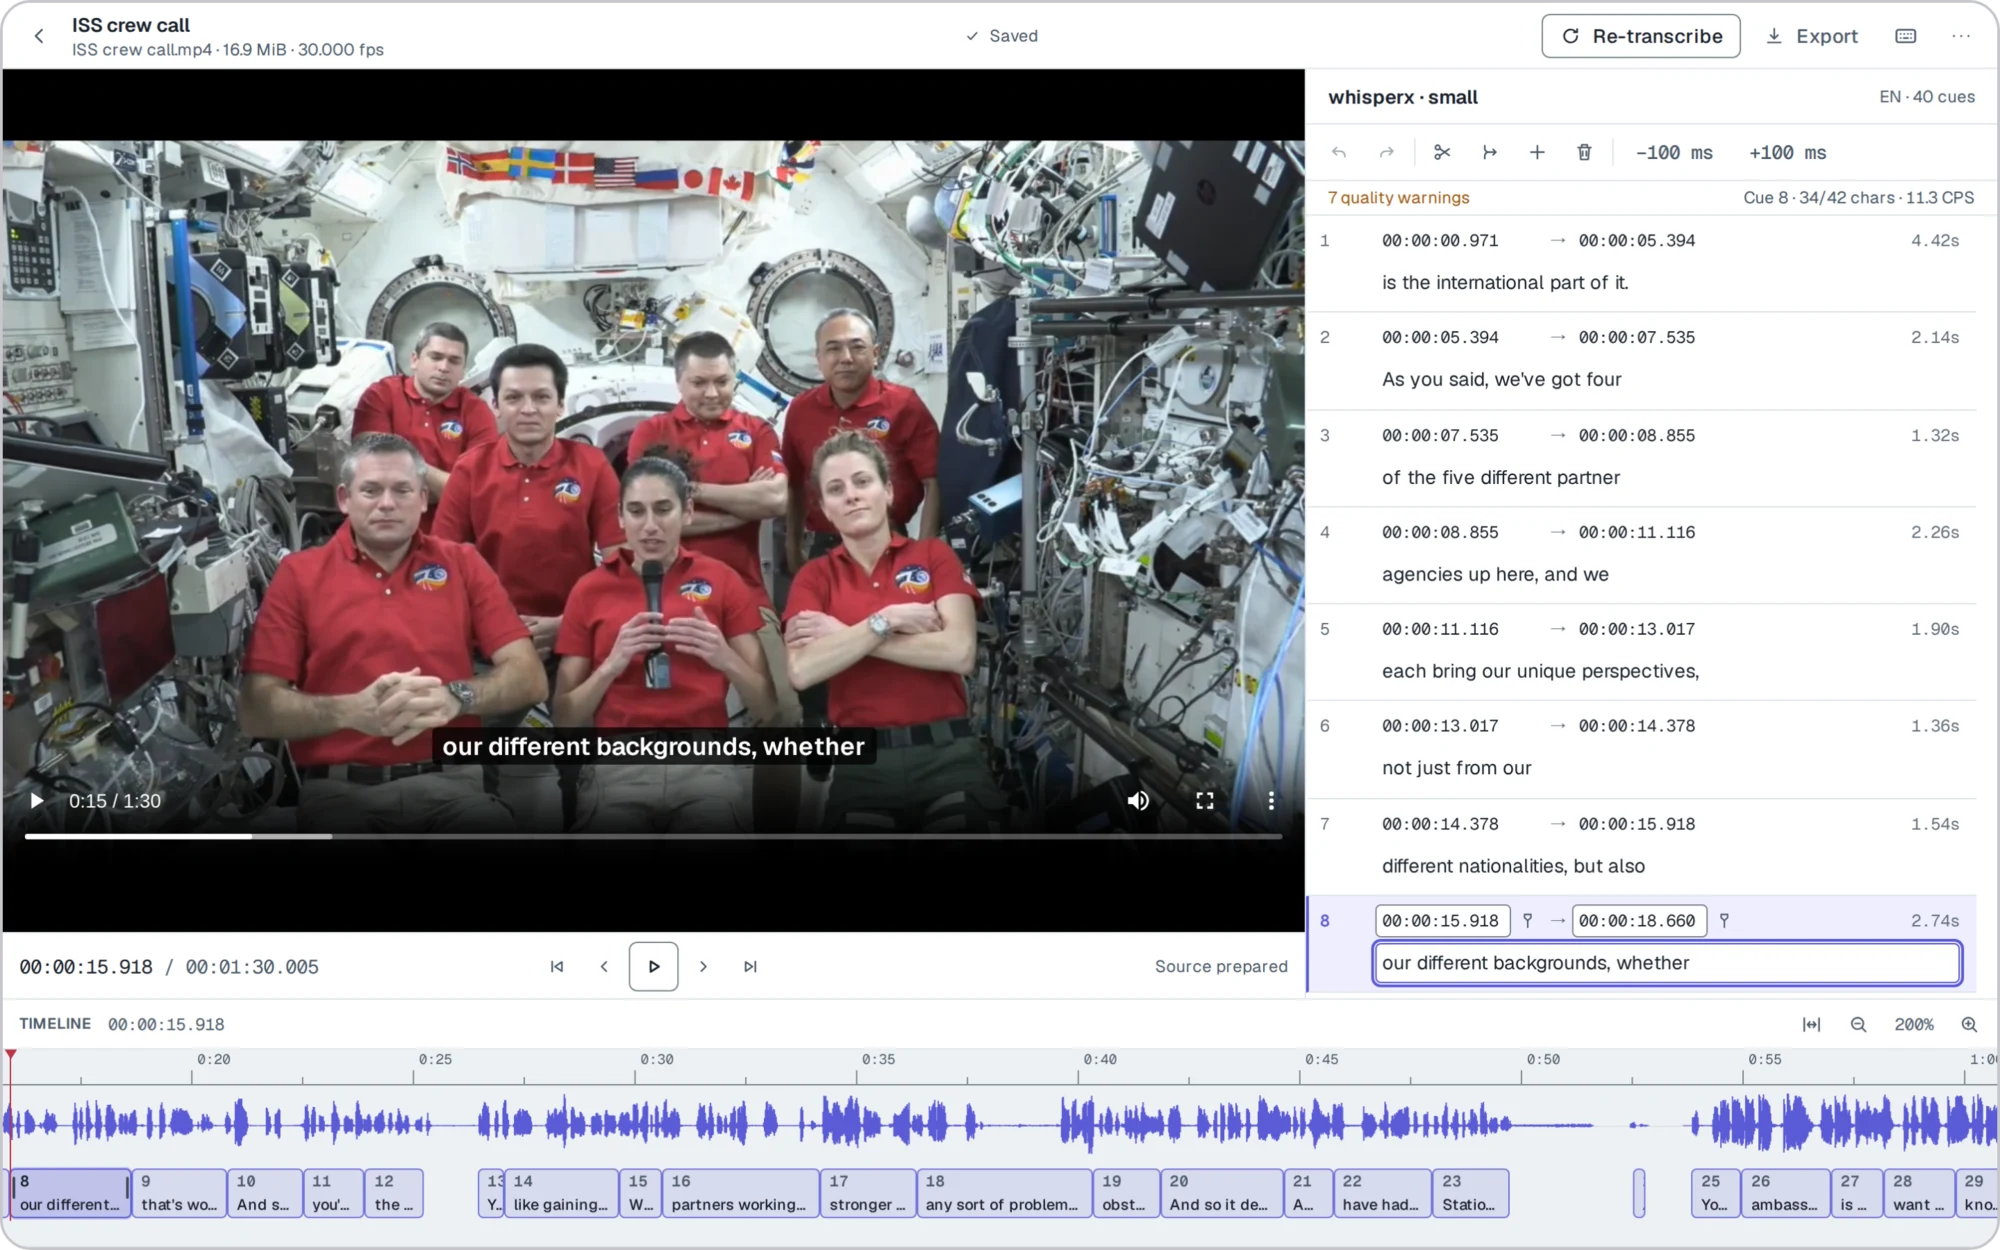
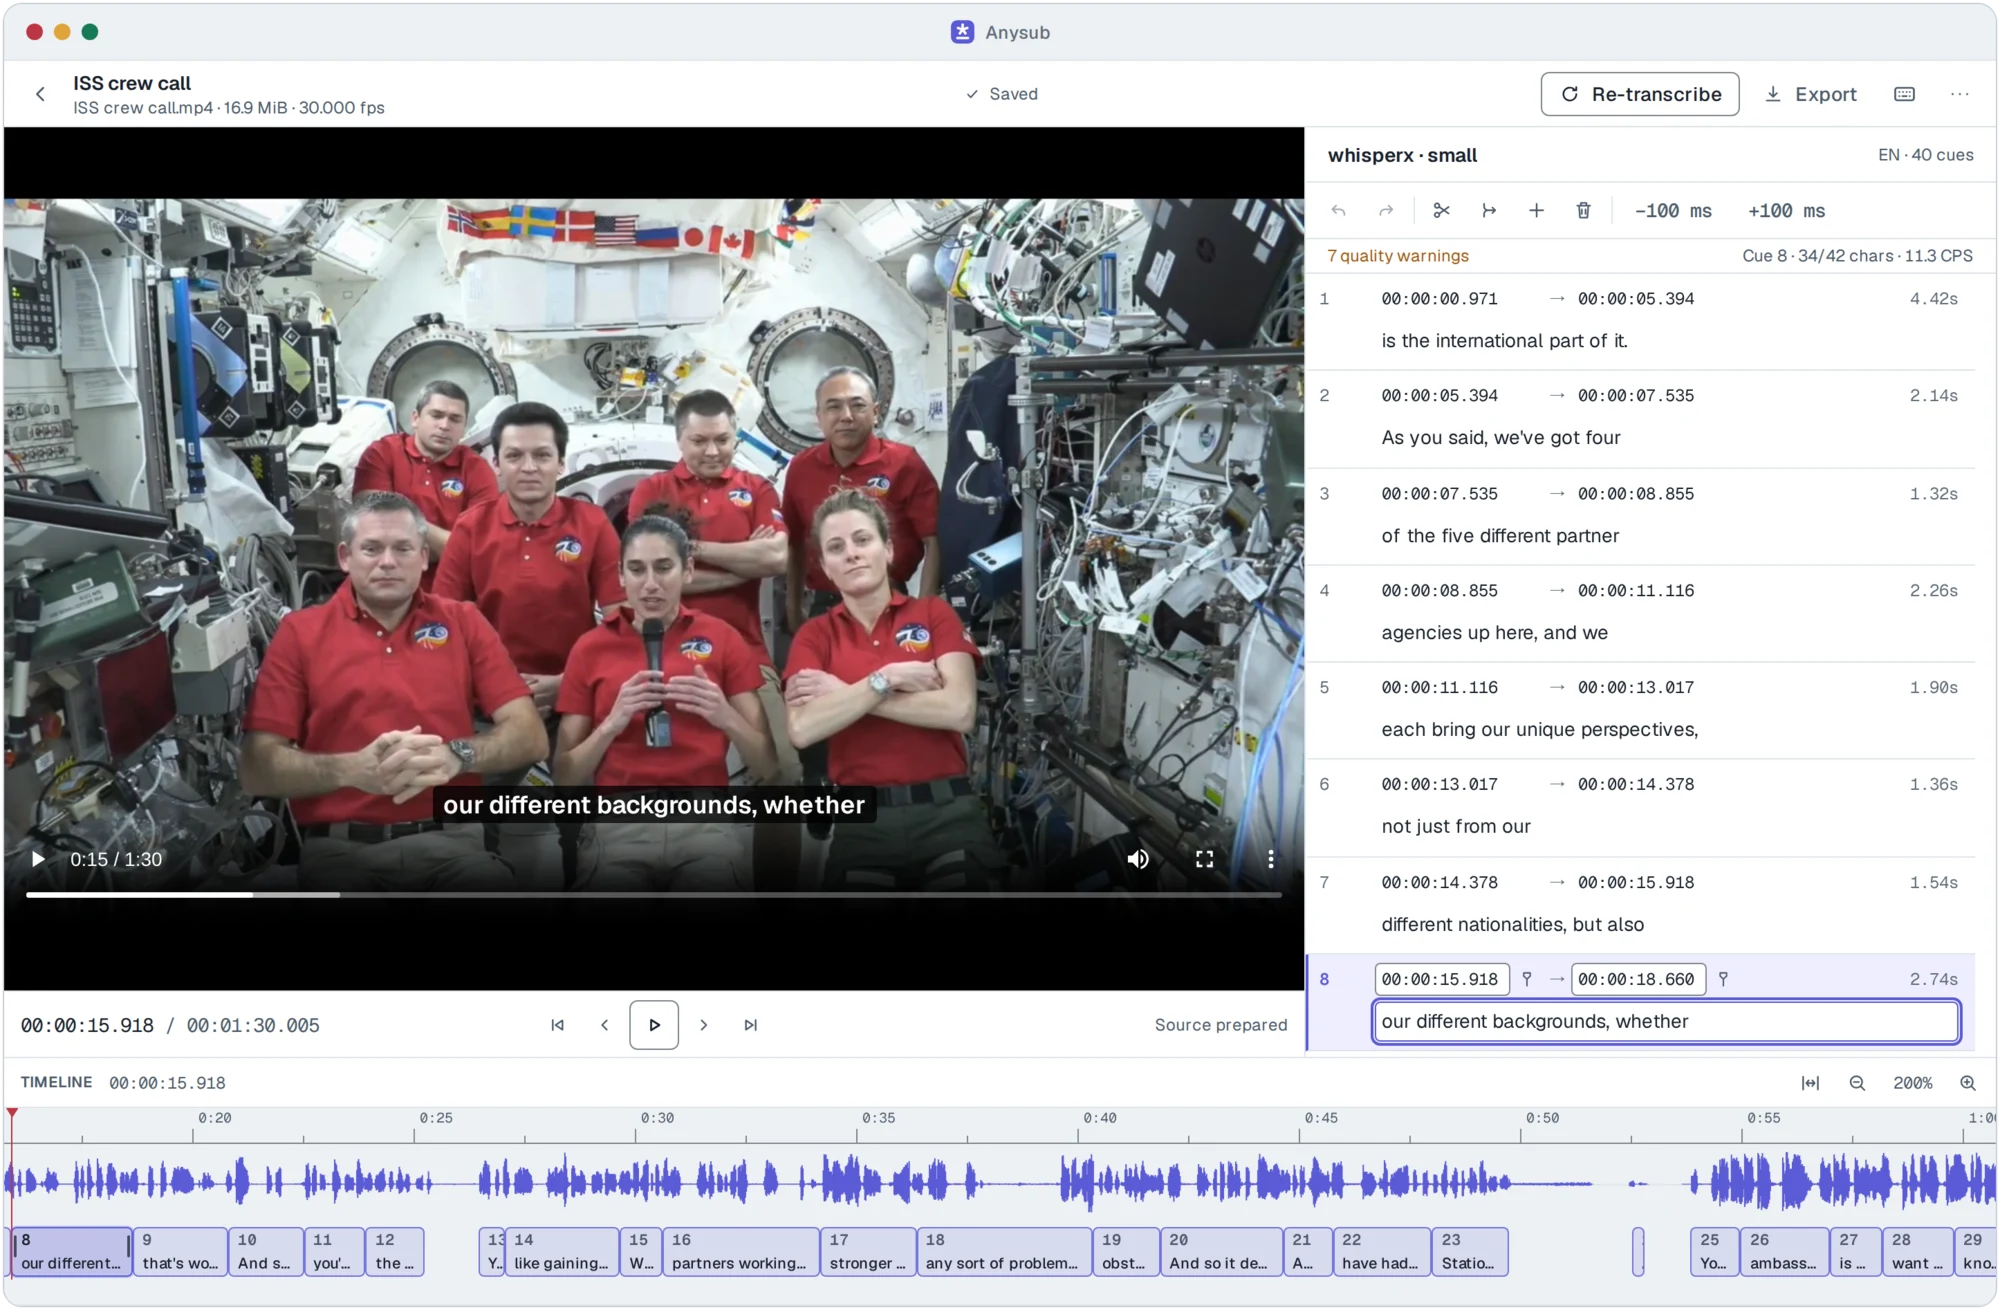
docs: frame the README screenshot and simplify the intro

diff --git a/README.md b/README.md
@@ -4,9 +4,7 @@
 
 <h1 align="center">Anysub</h1>
 
-Anysub turns audio and video into subtitles with an easy-to-use web UI. Everything runs on your own machine.
-
-It is the successor to Whishper, rewritten from scratch.
+Anysub (formerly Whishper) makes subtitles from audio and video. Upload a recording, let Whisper transcribe it, then fix the text and timing in the editor and export. It runs on your own computer or server.
 
 <p align="center">
   <img src="docs/images/studio.webp" alt="The Anysub studio with the video, the subtitle list and the waveform timeline" width="900">
